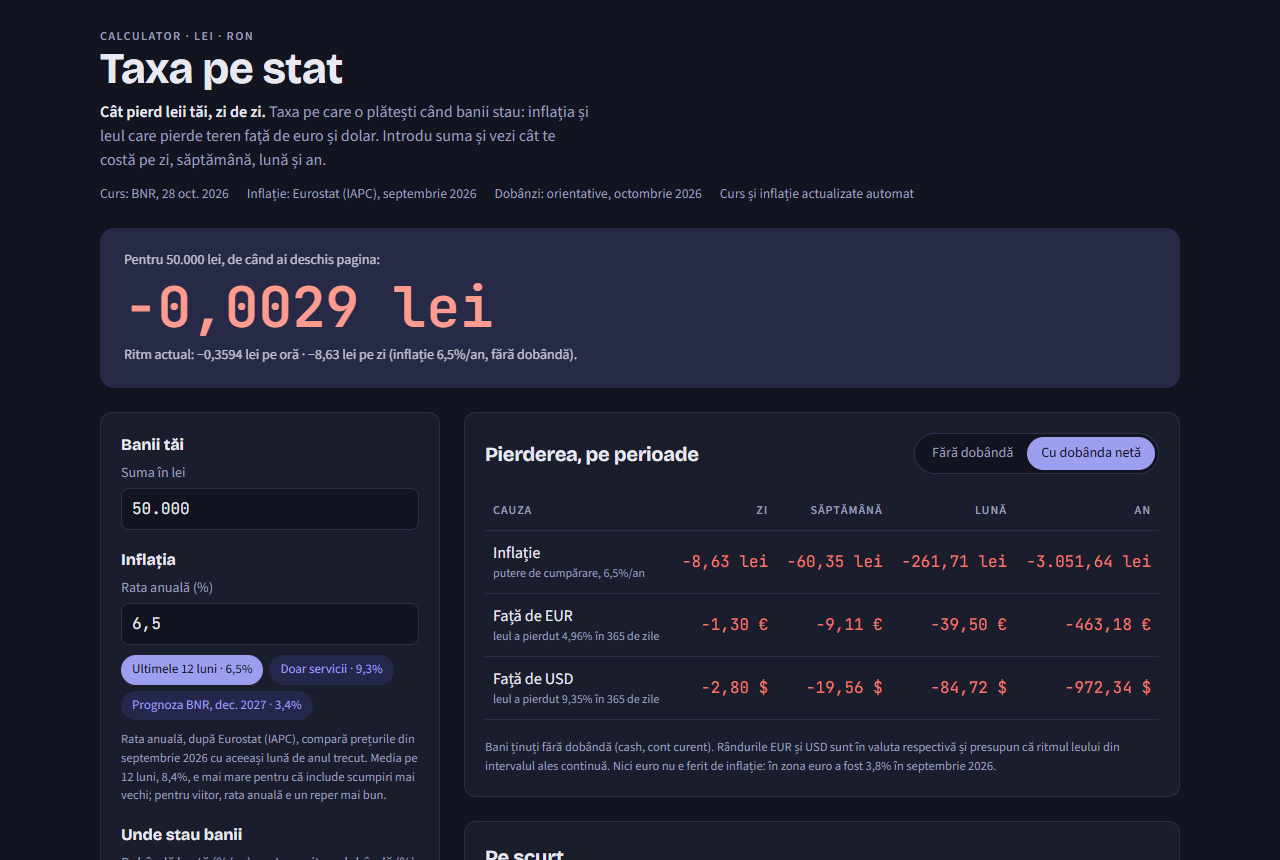
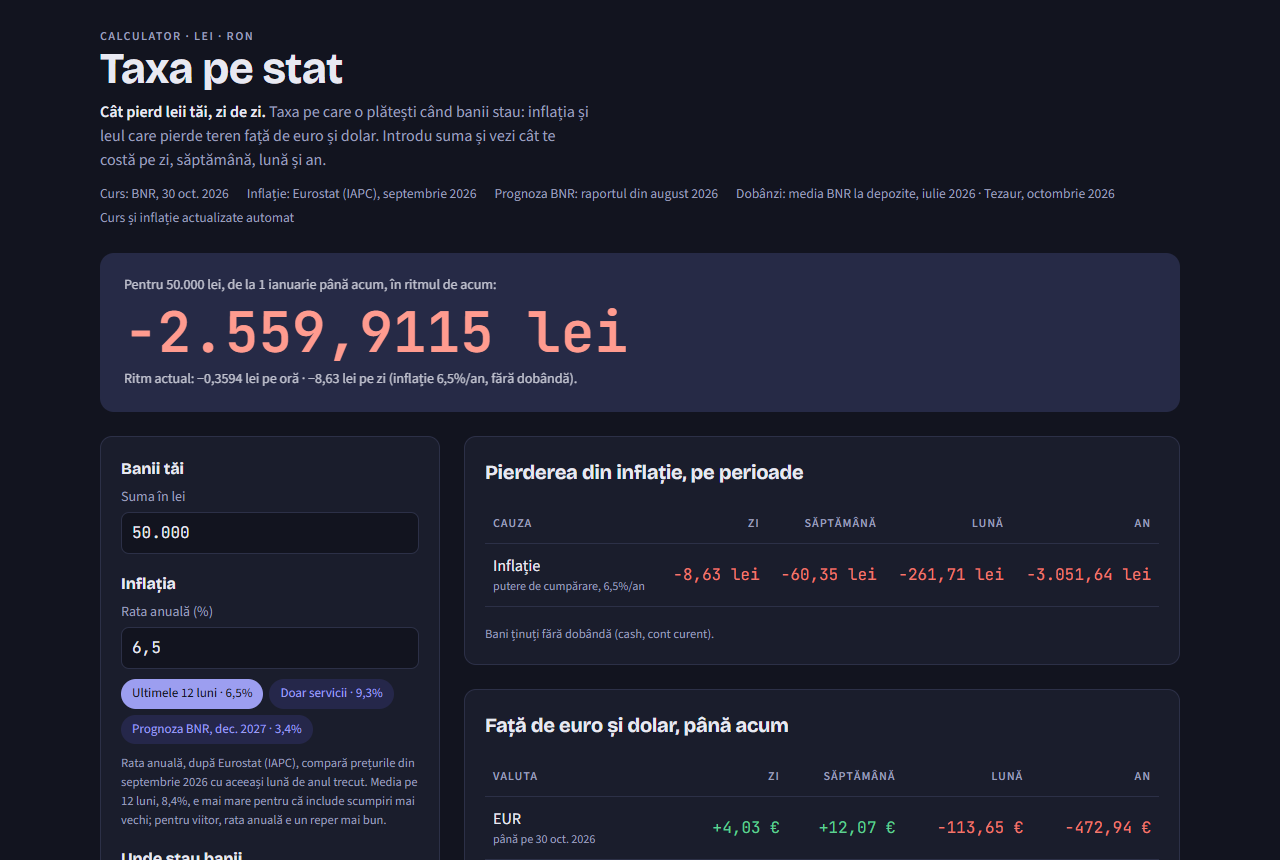
Release v0.4.0
EUR and USD show what already happened (F-84), the counter shows the
loss since 1 January (F-85), the interest switch is gone (F-86), the
chart states its assumption (F-87), three scheduled runs off the round
minutes (F-88), pull.rebase documented (F-89), Chrome as root in the
end-to-end tests (F-90). The source is split into src/, with a test file
per module: 242 → 360 tests.

CHANGELOG, package.json, the README's history and screenshot (dark,
1280×860, the default state), DESIGN §11 and CLAUDE.md updated.

diff --git a/CHANGELOG.md b/CHANGELOG.md
@@ -2,6 +2,23 @@
 
 The project's versions, briefly. The details of each problem are in [`FINDINGS.md`](FINDINGS.md), by ID.
 
+## [0.4.0] - 2026-11-01 - Honest numbers, separate files
+
+### Changed
+- **EUR and USD show what already happened** (F-84): their own table, „Față de euro și dolar, până acum”, compares BNR's rate 1, 7, 30 and 365 days back with today's. The old rows stretched the year's pace over a day and a week and often got even the sign wrong: on 30 October they said the last day cost 1.26 €, when the leu had gained 4.03 €. The only projection left is a year's, in one sentence under the table.
+- **The counter** shows the loss since 1 January for the sum in the form, about −2,555 lei on 1 November for 50,000 lei at 6.5%, instead of starting at zero when the page opens (F-85).
+- **One mode:** the „Fără dobândă / Cu dobânda netă” switch is gone; the form's interest always applies, and 0% is a current account (F-86).
+- **The chart** states its constant-inflation assumption in the drawing, with a button for BNR's forecast (F-87).
+- **The scheduled data runs:** three, off the round minutes, since GitHub started them 4.5 to 6 hours late (F-88).
+- **The source is split** into `src/`: the markup, two stylesheets and eleven ES modules, joined into one page by `build.mjs` without a bundler. The site is still one page, whose CSP allows scripts only by hash.
+
+### Fixed
+- **The end-to-end tests** start Chrome as root, and say why when Chrome does not start (F-90).
+
+### Added
+- **Tests:** from 242 to 360, with a test file per module (`format`, `builtin-data`, `table`, `modules`, `chrome`). Every fix fails its test when undone.
+- **Docs:** `pull.rebase` for a new clone (F-89). O-01 (CASS) and O-06 (interest at maturity) are accepted limitations.
+
 ## [0.3.4] - 2026-10-29 - An official deposit rate
 
 ### Changed
@@ -110,6 +127,7 @@ The project's versions, briefly. The details of each problem are in [`FINDINGS.m
 - **Publishing and running:** an artifact on claude.ai, a local server, `start.cmd`.
 - **`BAZA.md`** (now `DESIGN.md`): the data, the causes, the formulas and the worked example.
 
+[0.4.0]: https://github.com/RomulusMirauta/taxa-pe-stat/compare/v0.3.4...v0.4.0
 [0.3.4]: https://github.com/RomulusMirauta/taxa-pe-stat/compare/v0.3.3...v0.3.4
 [0.3.3]: https://github.com/RomulusMirauta/taxa-pe-stat/compare/v0.3.2...v0.3.3
 [0.3.2]: https://github.com/RomulusMirauta/taxa-pe-stat/compare/v0.3.1...v0.3.2

diff --git a/DESIGN.md b/DESIGN.md
@@ -6,7 +6,7 @@ The reference document: why the app exists, what data it relies on, what it comp
 
 **Rule:** if you change the logic in `src/js/calc.js`, update §5 and the tests in `tests/calc.test.mjs`.
 
-Updated: 29 October 2026 (after publishing on GitHub Pages and the first run with real data).
+Updated: 1 November 2026 (v0.4.0: what already happened against EUR and USD, the counter since 1 January, the source in `src/`).
 
 The app's interface is in Romanian. Quoted labels below („Pe scurt”, „Cu dobânda netă”) are the names used in the page.
 
@@ -501,6 +501,8 @@ One-time steps (done on 29 October 2026):
 - [x] Tests and fixes for phones, in v0.3.3: a sweep at nine sizes found F-80…F-82.
 - [ ] The owner's decision on protecting `main` and the tags, and on Dependabot for the actions (O-16).
 - [x] A current, official source for the deposit rate, in v0.3.4: BNR's average for new household term deposits in lei, 6–12 months (F-83). Reading it automatically is idea #7 in [`docs/IDEAS.md`](docs/IDEAS.md).
+- [x] v0.4.0: the page's numbers checked against the real data and the Actions runs (F-84…F-90): EUR and USD as what already happened, the counter since 1 January, one mode, the chart's assumption in the drawing; the source split into `src/`, with a test file per module.
+- [ ] A week after v0.4.0: the start times of the scheduled runs, observed, in §5.10 and FINDINGS F-88.
 - [ ] What is still in the app: the second table in [`FINDINGS.md`](FINDINGS.md).
 
 Ideas for later (a EUR/RON chart, CASS, the FX spread, personal inflation, lei vs euros) are in [`docs/IDEAS.md`](docs/IDEAS.md); they are not scheduled.

diff --git a/CLAUDE.md b/CLAUDE.md
@@ -20,9 +20,10 @@ Where to find the rest:
 | `docs/DEVELOPMENT.md` | how we work: Claude, the local copy, the former claude.ai artifact |
 | `docs/IDEAS.md` | ideas for later, not scheduled |
 
-## Where we left off (29 Oct 2026)
+## Where we left off (1 Nov 2026)
 
-- **Published:** v0.3.4, on GitHub Pages; the repo's "About" is filled in.
+- **Version:** v0.4.0, on GitHub Pages: the source split into `src/`, EUR and USD as what already happened (F-84), the counter since 1 January (F-85). The repo's "About" is filled in.
+- **To check, from 8 Nov 2026:** the start times of the scheduled runs (F-88: `gh run list … --event schedule`), written in DESIGN §5.10.
 - **The daily data works:** BNR (from `curs.bnr.ro`) and Eurostat answer from GitHub Actions, and the bot commits "data: rates …". After every deploy, the `check` job fails (with an email) if the data has stopped updating. If a run's warnings look odd, read F-38…F-54 in `FINDINGS.md` first.
 - **Waiting for the owner:** O-16 (protecting `main` and the tags, Dependabot for the actions).
 - **By hand, monthly:** the deposit rate from BNR's Buletin lunar (table 10.1.2, households, 6–12 months; DESIGN §2) and the Tezaur rate of the month's issue.

diff --git a/README.md b/README.md
@@ -87,6 +87,7 @@ Fiecare pas e un commit, iar versiunile au tag-uri. Pe scurt, în [`CHANGELOG.md
 | **v0.3.2** | tabelul de pierderi se vede întreg pe telefon; contorul încetinește imediat când pornești „mișcare redusă” |
 | **v0.3.3** | pe telefon: tabelul cu o perioadă pe rând, graficul la mărimea lui, butoane și câmpuri ușor de atins |
 | **v0.3.4** | dobânda la depozit: media oficială BNR pe 6–12 luni, cu întârzierea ei de publicare explicată |
+| **v0.4.0** | euro și dolar: ce s-a întâmplat deja, nu o proiecție; contorul de la 1 ianuarie; fără comutatorul de dobândă; ipoteza graficului scrisă pe grafic; codul în fișiere separate, cu teste pe module |
 
 Cum lucrăm (cu Claude, copia locală): [`docs/DEVELOPMENT.md`](docs/DEVELOPMENT.md). Idei pentru mai târziu: [`docs/IDEAS.md`](docs/IDEAS.md).
 
